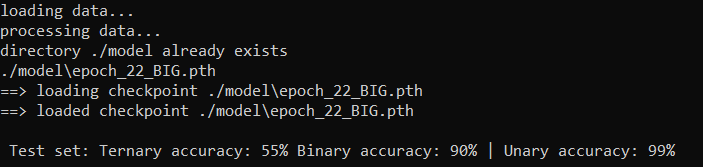
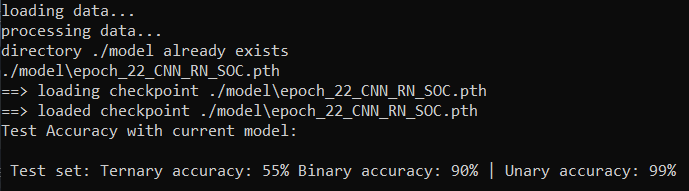
added initial test accuracy

Changed region(s): [[0.0, 0.0, 0.701, 0.7186], [0.0, 0.8383, 1.0, 0.9581]]

diff --git a/main.py b/main.py
@@ -311,6 +311,7 @@ def load_data():
 
 ternary_train, ternary_test, rel_train, rel_test, norel_train, norel_test = load_data()
 
+
 try:
     os.makedirs(model_dirs)
 except:
@@ -324,6 +325,9 @@ if args.resume:
         checkpoint = torch.load(filename)
         model.load_state_dict(checkpoint)
         print('==> loaded checkpoint {}'.format(filename))
+
+#print("Test Accuracy with current model:")
+#test(0, ternary_test, rel_test, norel_test)
 
 with open(f'./{args.model}_{args.seed}_log.csv', 'w') as log_file:
     csv_writer = csv.writer(log_file, delimiter=',')
